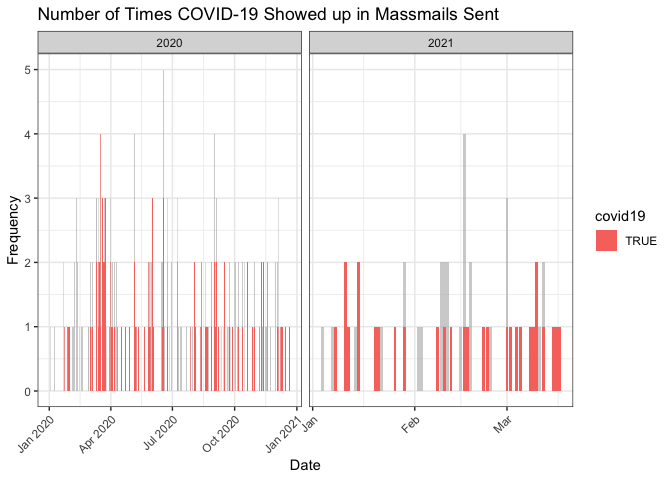
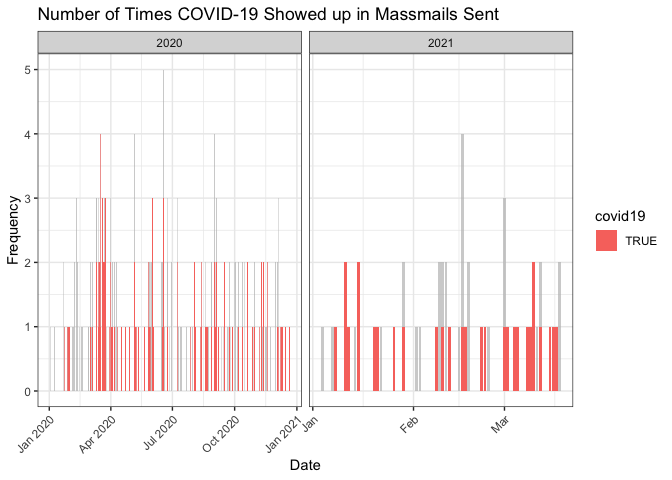
Re-build README.Rmd and Graphs

diff --git a/README.md b/README.md
@@ -17,7 +17,7 @@ The archive may be viewed here:
 
 <https://massmail.illinois.edu/massmailArchive>
 
-Data has **1307** observations and **7** variables:
+Data has **1309** observations and **7** variables:
 
   - `datetime`: Date and time when the email was sent in the form of
     `YYYY-MM-DD HMS` with either CDT or CST.
@@ -210,16 +210,16 @@ head(most_popular_words, 10) %>%
 
 | word        | freq |
 | :---------- | ---: |
-| students    |  872 |
-| university  |  803 |
+| students    |  875 |
+| university  |  810 |
 | campus      |  795 |
-| illinois    |  524 |
+| illinois    |  526 |
 | covid       |  485 |
-| faculty     |  436 |
-| community   |  429 |
-| information |  371 |
-| health      |  349 |
-| staff       |  348 |
+| faculty     |  442 |
+| community   |  437 |
+| information |  375 |
+| health      |  353 |
+| staff       |  352 |
 
 #### Wordcloud
 
